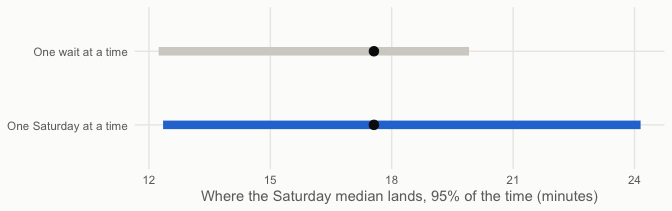
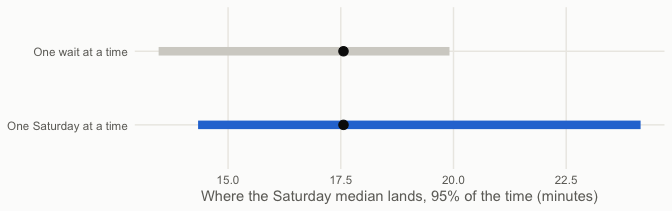
fix: rerun post 1 on the rebuilt tables

diff --git a/posts/01-does-my-experience-hold-up/README.md b/posts/01-does-my-experience-hold-up/README.md
@@ -44,9 +44,10 @@ waits |>
          saturday = weekday == "Sat") |>
   ggplot(aes(weekday, minutes, fill = saturday)) +
   geom_boxplot(colour = rv[["muted"]], outlier.colour = rv[["muted"]], width = 0.6) +
-  # Held back, as the site draws a day that leans slower but is not clearly so.
+  # Saturday is tinted, but only faintly: it looks slower without being clearly so.
   scale_fill_manual(values = c(`TRUE` = scales::alpha(rv[["amber"]], 0.45), `FALSE` = rv[["grey"]]), guide = "none") +
-  labs(x = NULL, y = "Minutes waiting")
+  labs(x = NULL, y = "Minutes waiting",
+       caption = "How much waits vary within each weekday. Not how sure the medians are.")
 ```
 
 </details>
@@ -77,7 +78,7 @@ over, I can’t.
 
 Here’s the part that surprised me. It matters *what* you draw.
 
-If I draw single waits, I treat my 40 Saturday waits as 40 separate
+If I draw single waits, I treat my 42 Saturday waits as 42 separate
 pieces of evidence. But they aren’t. Waits on the same day share the
 same weather, the same traffic, the same luck. A slow Saturday is slow
 all day.
@@ -119,8 +120,8 @@ tibble(
 
 ![](post_files/figure-commonmark/saturday-both-ways-1.png)
 
-Drawing single waits, the Saturday median lands between 12.2 and 19.9
-minutes, 95% of the time. Drawing whole Saturdays, it’s 12.3 to 24.1.
+Drawing single waits, the Saturday median lands between 13.5 and 19.9
+minutes, 95% of the time. Drawing whole Saturdays, it’s 14.3 to 24.1.
 
 Same data. A much wider range. Drawing single waits made me more sure
 than I should be. From here on, I draw whole days.
@@ -146,10 +147,10 @@ range_saturday <- quantile(diff_saturday, c(0.025, 0.975))
 
 </details>
 
-Rebuild my two months 10,000 times, and Saturday comes out slower in 91
+Rebuild my two months 10,000 times, and Saturday comes out slower in 92
 of every 100.
 
-That sounds convincing. But the range runs from -2.3 to 9.7 minutes, and
+That sounds convincing. But the range runs from -1.3 to 9.5 minutes, and
 it crosses zero. Saturday could be a lot slower, or a little faster.
 
 > [!WARNING]
@@ -207,7 +208,7 @@ slower; far below, most come out faster.
 
 | Belief                            | Out of 100 rebuilds, slower in |
 |-----------------------------------|--------------------------------|
-| Saturday is slower                | 91                             |
+| Saturday is slower                | 92                             |
 | Weekends are slower than weekdays | 45                             |
 | After 8 pm is slower than earlier | 28                             |
 
